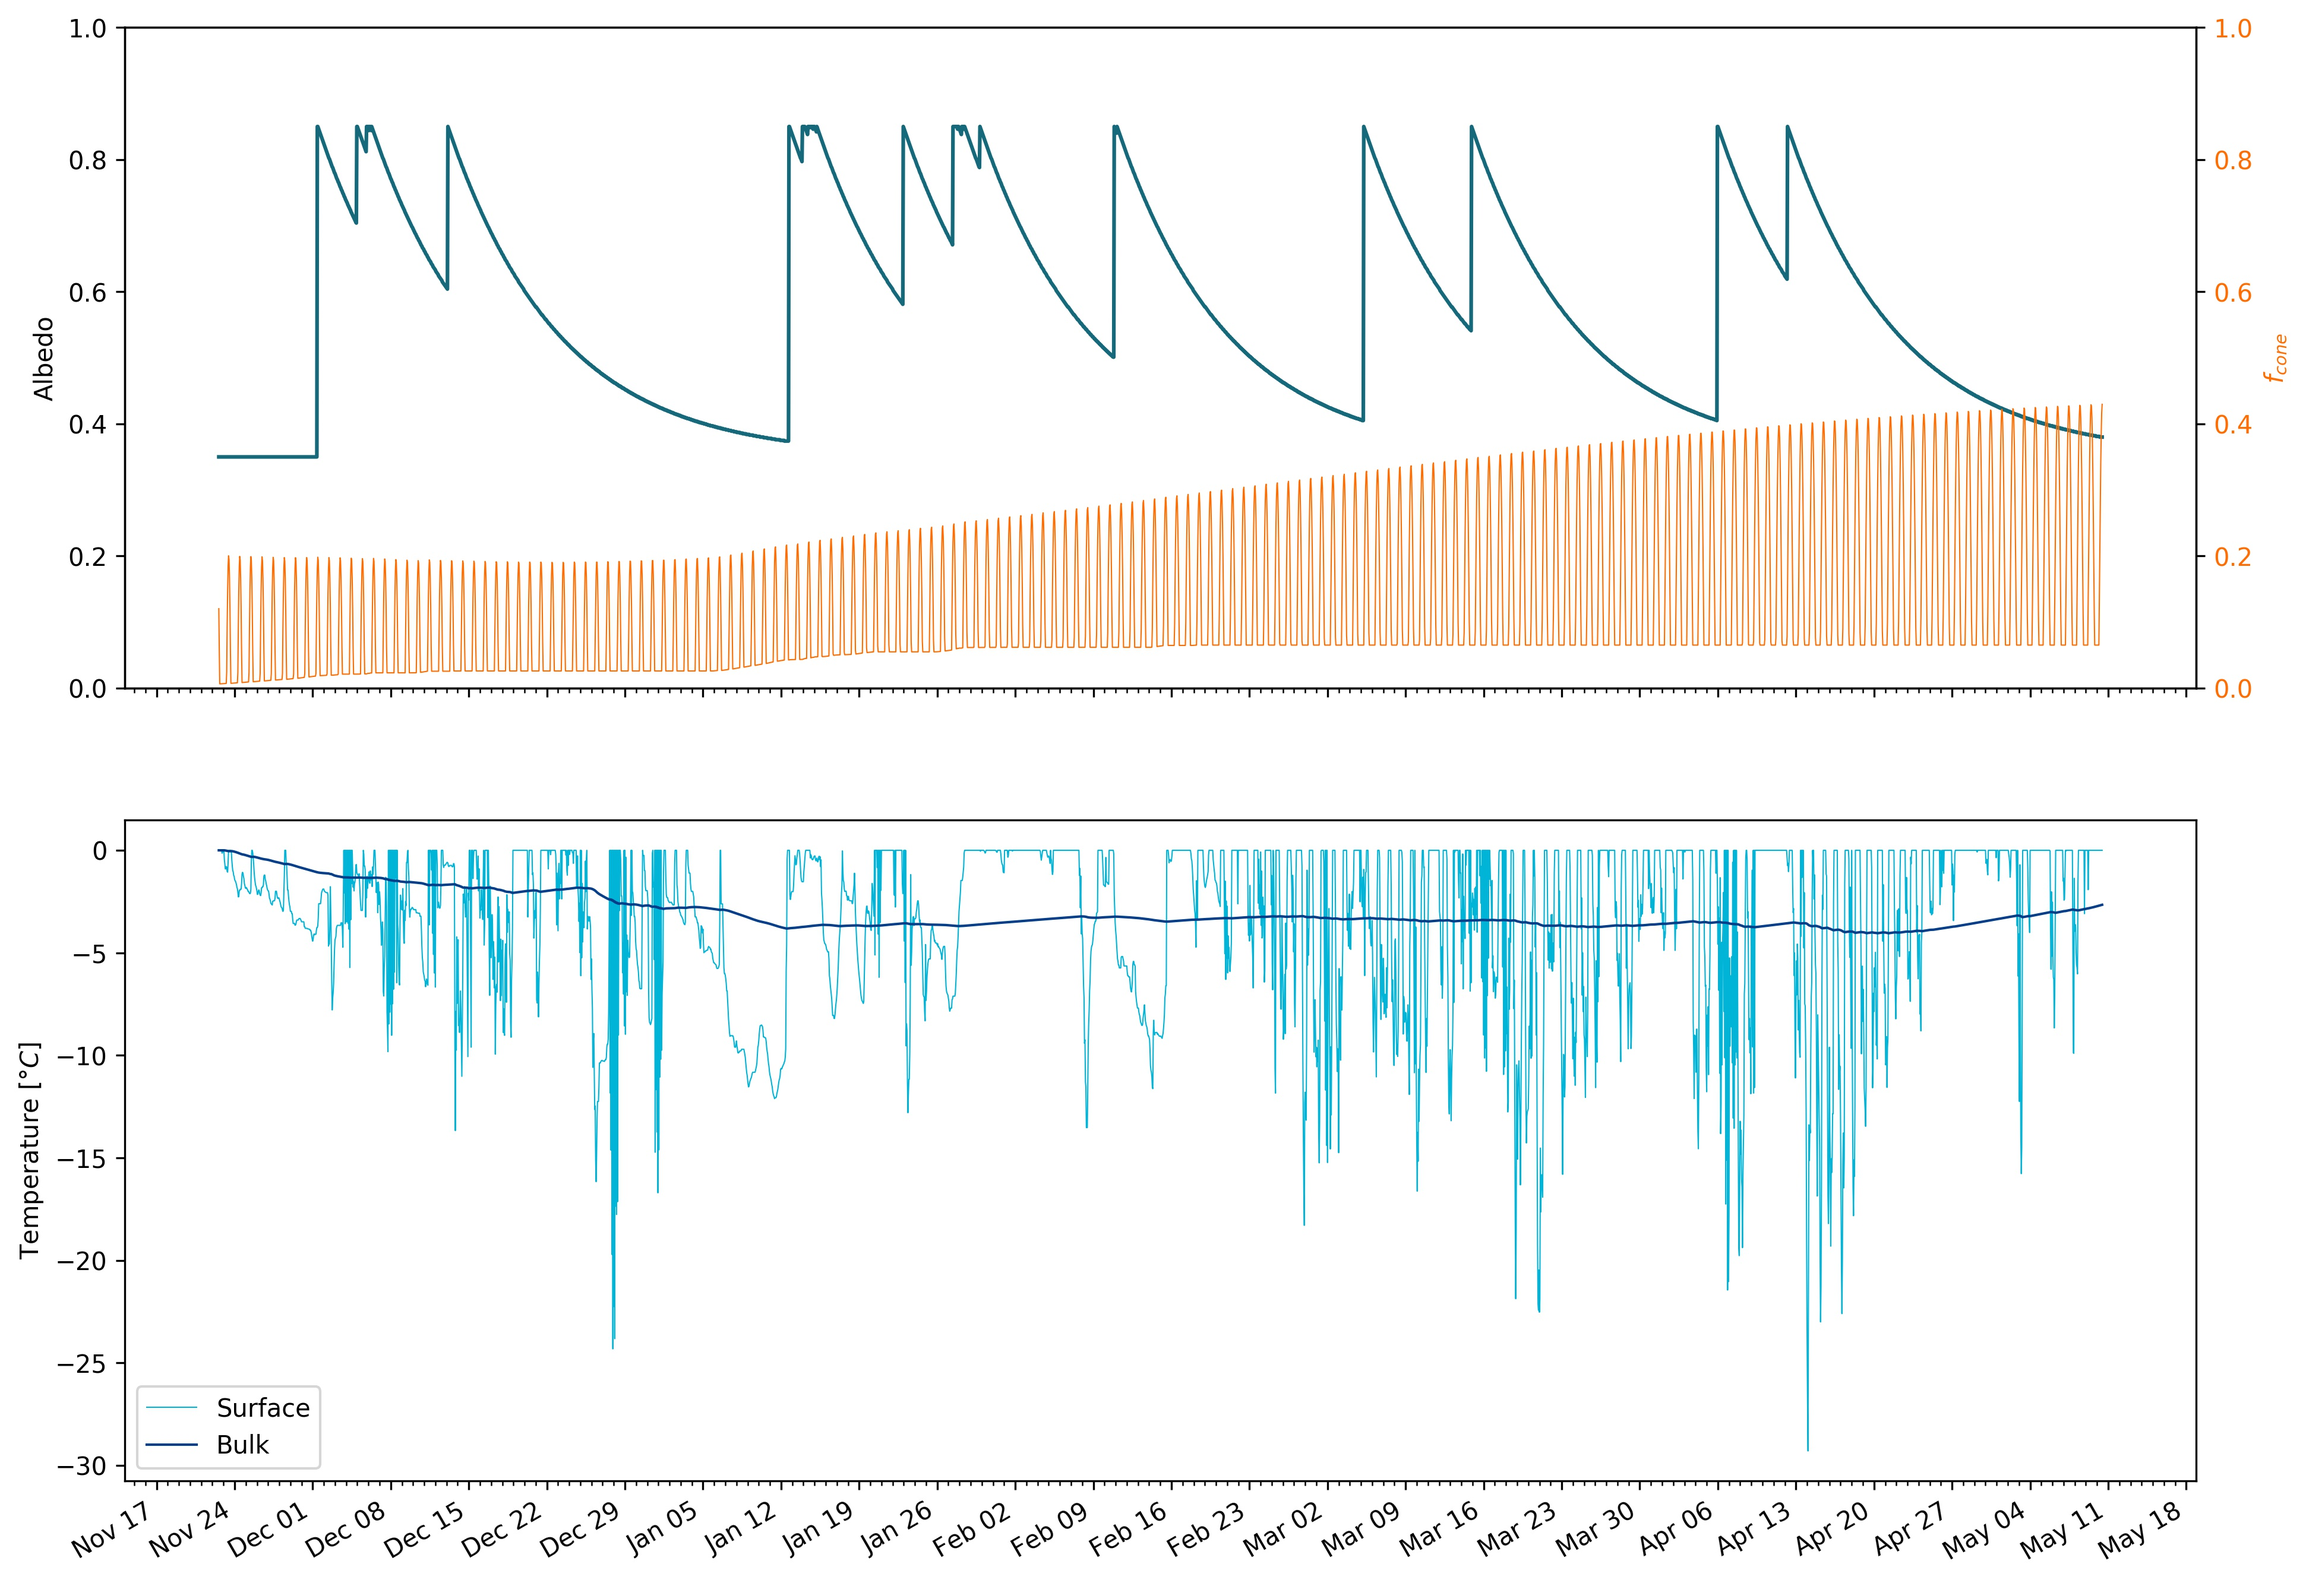
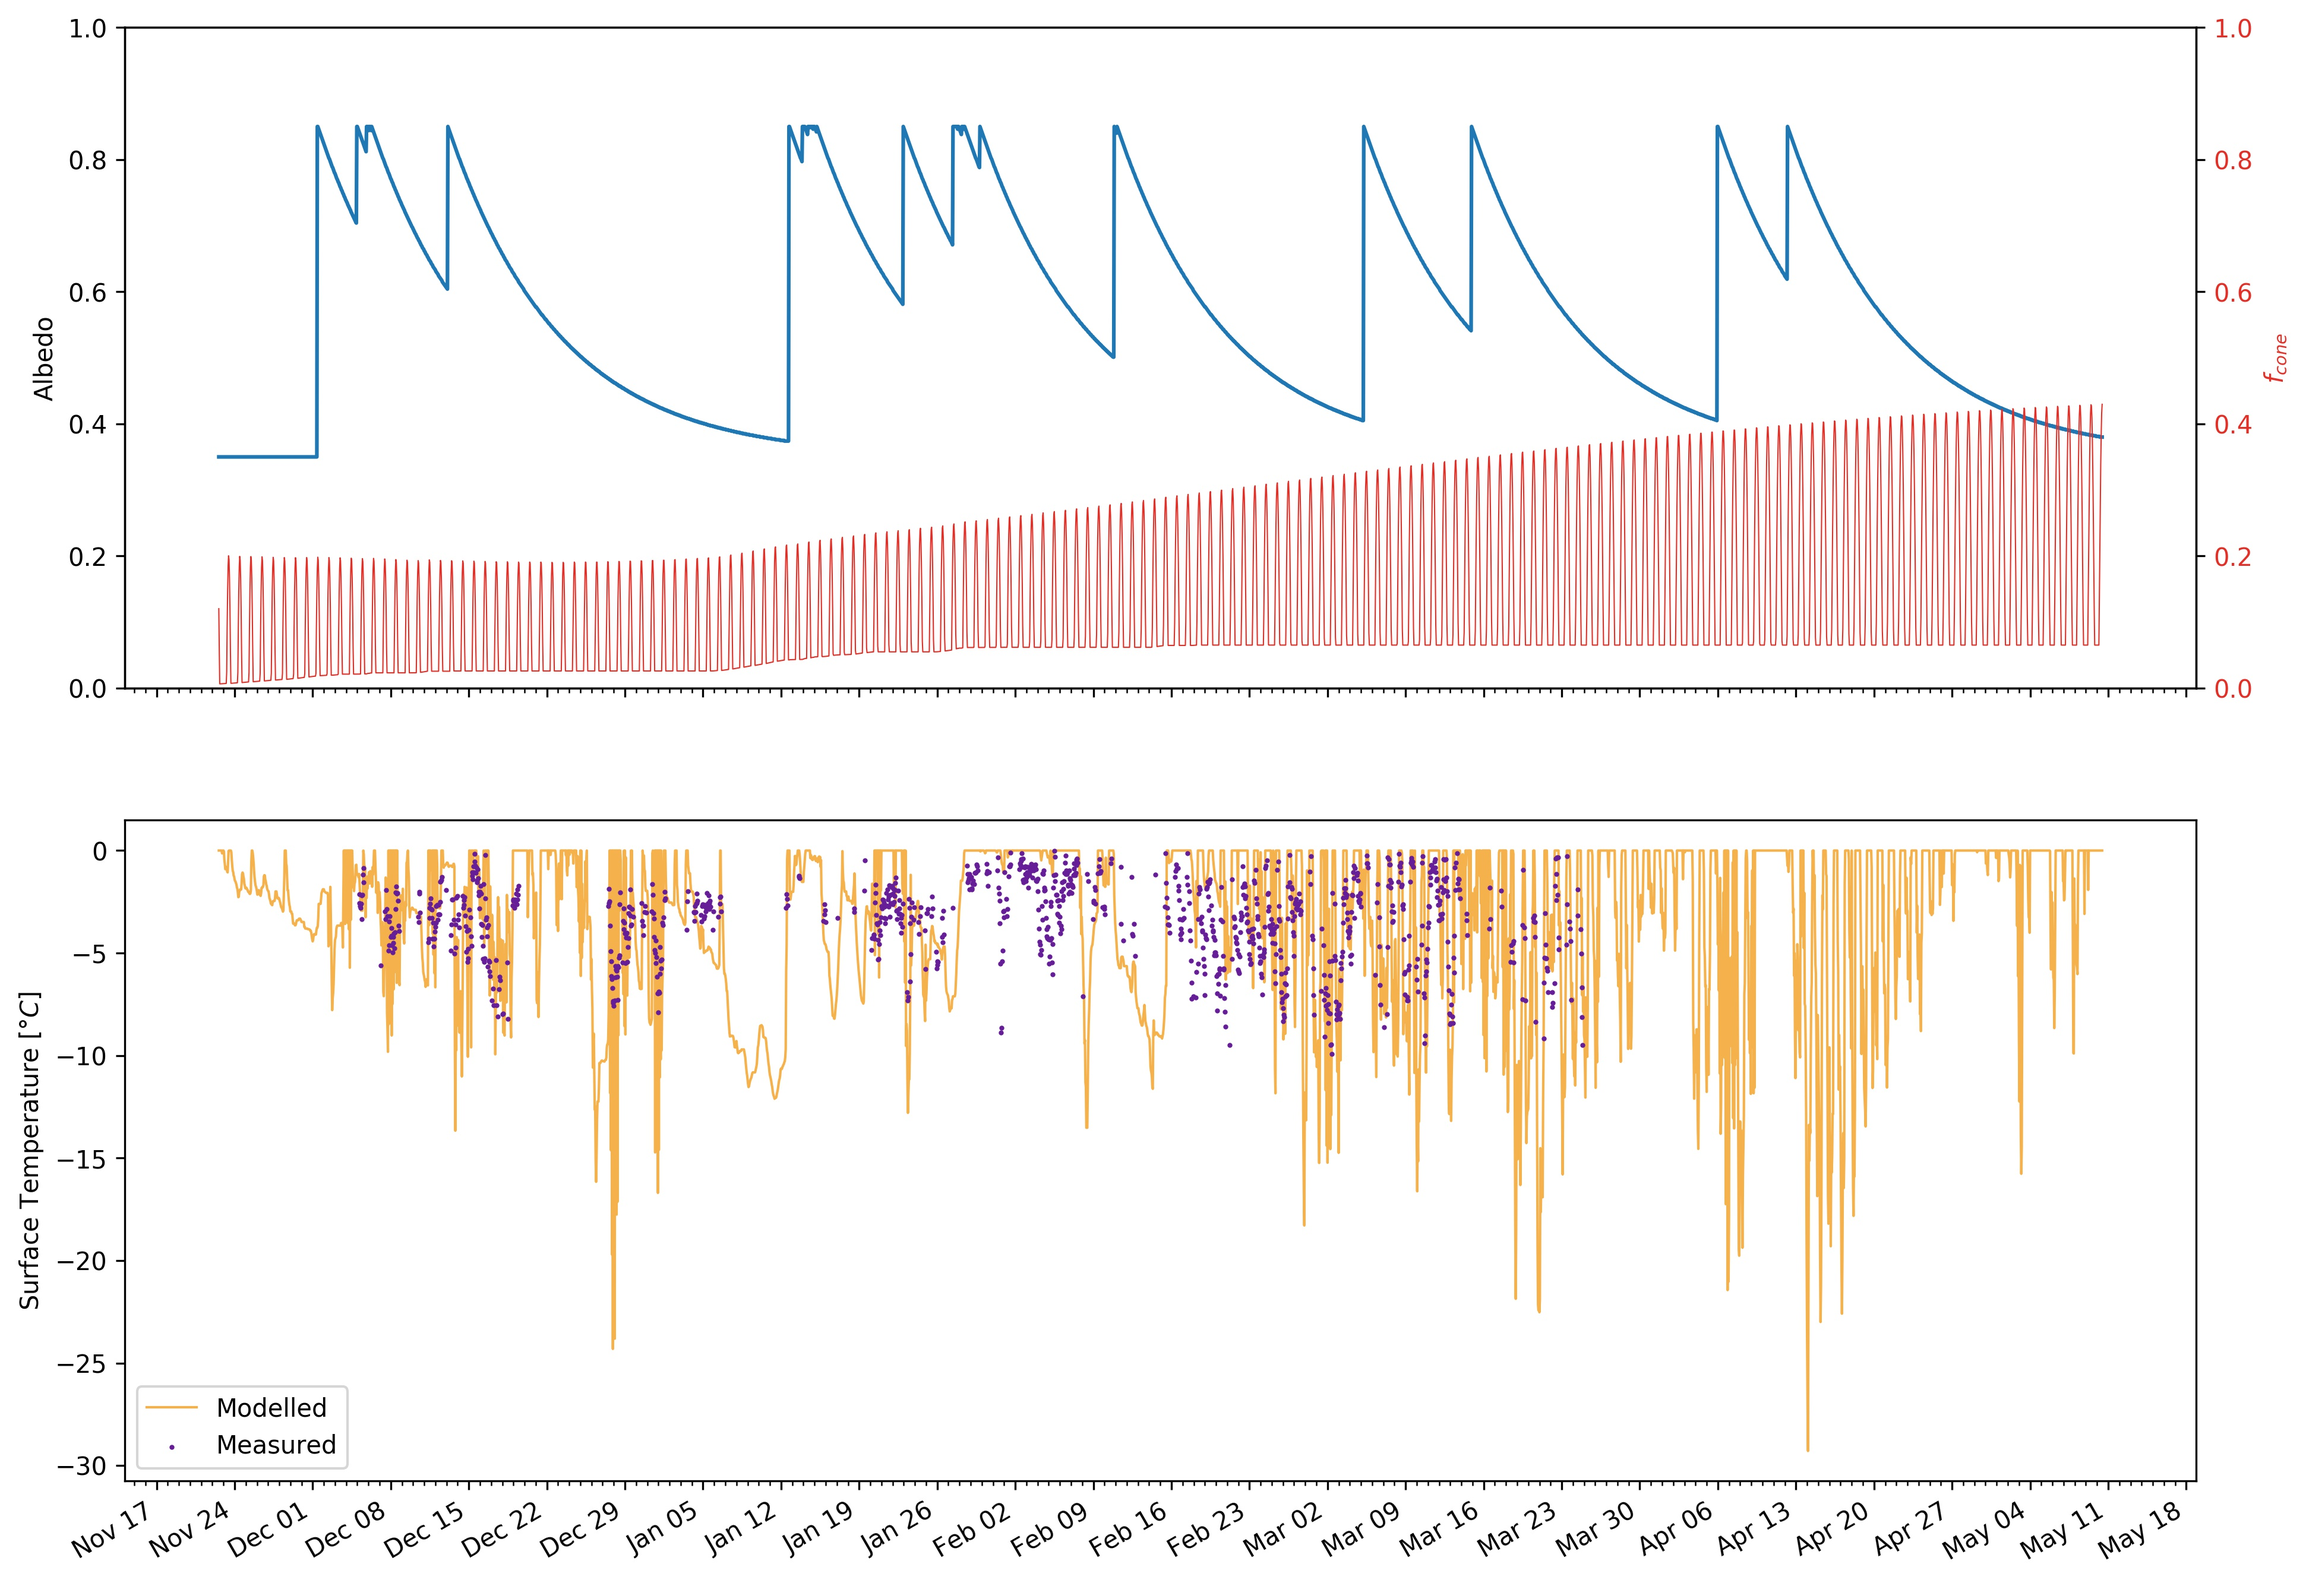
Tweaks in make dataset

diff --git a/src/models/methods/_figures.py b/src/models/methods/_figures.py
@@ -409,23 +409,44 @@ def summary_figures(self):
 
     y1 = self.df.a
     y2 = self.df.f_cone
-    ax1.plot(x, y1, color="#16697a")
+    ax1.plot(x, y1)
     ax1.set_ylabel("Albedo")
     ax1t = ax1.twinx()
-    ax1t.plot(x, y2, color="#ff6d00", linewidth=0.5)
-    ax1t.set_ylabel("$f_{cone}$", color="#ff6d00")
+    ax1t.plot(x, y2, color=red, linewidth=0.5)
+    ax1t.set_ylabel("$f_{cone}$", color=red)
     for tl in ax1t.get_yticklabels():
-        tl.set_color("#ff6d00")
+        tl.set_color(red)
     ax1.set_ylim([0, 1])
     ax1t.set_ylim([0, 1])
 
     y1 = self.df.T_s
-    y2 = self.df.T_bulk
+    y2 = df_cam.cam_temp
+
     ax2.plot(
-        x, y1, "k-", linestyle="-", color="#00b4d8", linewidth=0.5, label="Surface"
+        x,
+        y1,
+        "b-",
+        label="Modelled",
+        linewidth=1,
+        color=CB91_Amber,
+        zorder=0,
     )
-    ax2.set_ylabel("Temperature [$\\degree C$]")
-    ax2.plot(x, y2, linestyle="-", color="#023e8a", linewidth=1, label="Bulk")
+    ax2.scatter(
+        x,
+        y2,
+        color=CB91_Violet,
+        s=1,
+        label="Measured",
+        zorder=1,
+    )
+    ax2.set_ylabel("Surface Temperature [$\\degree C$]")
+    # ax2.plot(
+    #     x, y1, "k-", linestyle="-", color=CB91_Amber, linewidth=0.5, label="Modelled Surface Temperature"
+    # )
+    # ax2.plot(
+    #     x, y2, "k-", linestyle="-", color=CB91_Violet, linewidth=0.5, label="Measured Surface Temperature"
+    # )
+    # ax2.plot(x, y3, linestyle="-", color=CB91_Purple, linewidth=1, label="Bulk")
     # ax2.set_ylim([-20, 1])
     ax2.legend()
 

diff --git a/src/data/make_dataset.py b/src/data/make_dataset.py
@@ -441,7 +441,7 @@ def era5(location="schwarzsee19"):
 
     # logger.info(df_ERA5.head())
     # logger.info(df_ERA5.tail())
-    return df_ERA5, df_in3
+    return df_ERA5
 
 
 def e_sat(T, surface="water", a1=611.21, a3=17.502, a4=32.19):
@@ -571,7 +571,6 @@ if __name__ == "__main__":
         df = field(location=SITE["name"])
 
     if SITE["name"] in ["guttannen21", "guttannen20"]:
-        dfx = field(location=SITE["name"])
         df = meteoswiss(SITE["name"])
 
     # TODO add to paper
@@ -595,7 +594,7 @@ if __name__ == "__main__":
         df= df.reset_index()
 
 
-    df_ERA5, df_in3 = era5(SITE["name"])
+    df_ERA5 = era5(SITE["name"])
 
     df = df.set_index("When")
 
@@ -605,7 +604,7 @@ if __name__ == "__main__":
 
     # Fit ERA5 to field data
     if SITE["name"] in ["guttannen21", "guttannen20"]:
-        fit_list = ["T_a", "RH", "v_a", "Prec"]
+        fit_list = ["T_a", "RH", "v_a","Prec"]
 
     if SITE["name"] in ["schwarzsee19"]:
         fit_list = ["T_a", "RH", "v_a", "p_a"]
@@ -645,7 +644,6 @@ if __name__ == "__main__":
             df["missing_type"] = df["missing_type"] + col
     logger.info(df.missing_type.describe())
     logger.info(df.missing_type.unique())
-
 
     # if SITE["name"] in ["schwarzsee19"]:
     #     for col in ["T_a", "RH", "v_a", "p_a"]:
